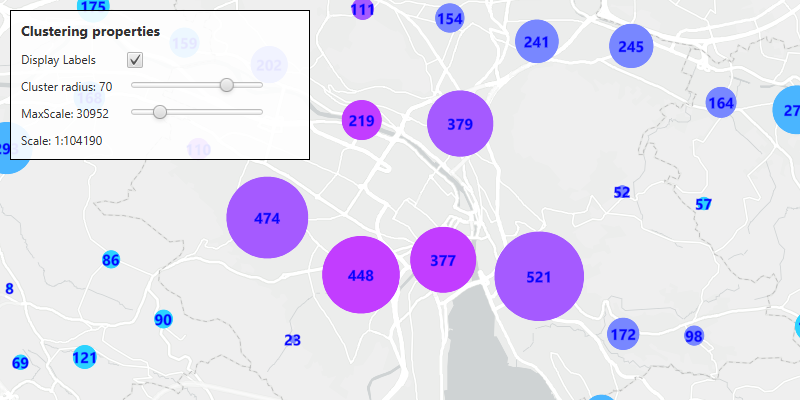
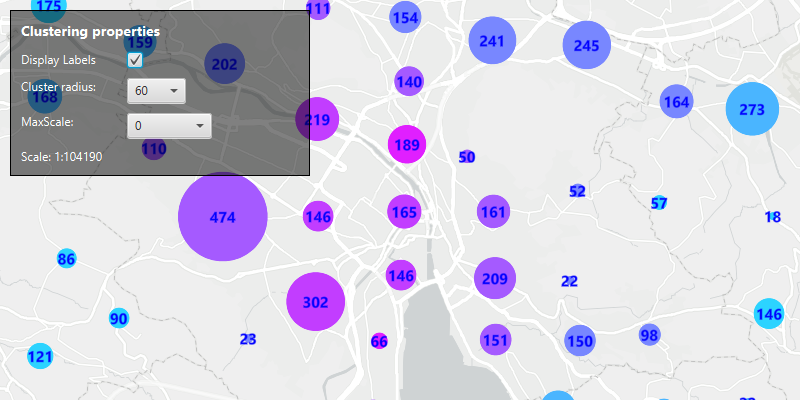
Addressing PR comments

diff --git a/feature_layers/add-feature-clustering/src/main/java/com/esri/samples/add_feature_clustering/AddFeatureClusteringSample.java b/feature_layers/add-feature-clustering/src/main/java/com/esri/samples/add_feature_clustering/AddFeatureClusteringSample.java
@@ -20,13 +20,14 @@ import java.util.ArrayList;
 import java.util.List;
 import java.util.Map;
 import java.util.concurrent.ExecutionException;
-import java.util.jar.Attributes;
 
+import com.esri.arcgisruntime.ArcGISRuntimeEnvironment;
 import com.esri.arcgisruntime.arcgisservices.LabelDefinition;
 import com.esri.arcgisruntime.arcgisservices.LabelingPlacement;
 import com.esri.arcgisruntime.concurrent.ListenableFuture;
 import com.esri.arcgisruntime.layers.FeatureLayer;
 import com.esri.arcgisruntime.loadable.LoadStatus;
+import com.esri.arcgisruntime.mapping.ArcGISMap;
 import com.esri.arcgisruntime.mapping.LayerList;
 import com.esri.arcgisruntime.mapping.labeling.SimpleLabelExpression;
 import com.esri.arcgisruntime.mapping.popup.Popup;
@@ -35,6 +36,7 @@ import com.esri.arcgisruntime.mapping.reduction.AggregateField;
 import com.esri.arcgisruntime.mapping.reduction.AggregateStatisticType;
 import com.esri.arcgisruntime.mapping.reduction.ClusteringFeatureReduction;
 import com.esri.arcgisruntime.mapping.view.IdentifyLayerResult;
+import com.esri.arcgisruntime.mapping.view.MapView;
 import com.esri.arcgisruntime.portal.Portal;
 import com.esri.arcgisruntime.portal.PortalItem;
 import com.esri.arcgisruntime.symbology.ClassBreaksRenderer;
@@ -47,8 +49,8 @@ import javafx.geometry.Point2D;
 import javafx.geometry.Pos;
 import javafx.scene.Scene;
 import javafx.scene.control.CheckBox;
+import javafx.scene.control.ComboBox;
 import javafx.scene.control.Label;
-import javafx.scene.control.Slider;
 import javafx.scene.layout.Background;
 import javafx.scene.layout.BackgroundFill;
 import javafx.scene.layout.Border;
@@ -64,29 +66,26 @@ import javafx.scene.paint.Paint;
 import javafx.scene.text.Font;
 import javafx.stage.Stage;
 
-import com.esri.arcgisruntime.ArcGISRuntimeEnvironment;
-import com.esri.arcgisruntime.mapping.ArcGISMap;
-import com.esri.arcgisruntime.mapping.view.MapView;
-
 public class AddFeatureClusteringSample extends Application {
 
-  private ArcGISMap mMap;
-  private CheckBox mDisplayLabelsCheckbox;
-  private Label mClusterRadiusLabel;
-  private Slider mClusterRadiusSlider;
-  private Label mMaxScaleLabel;
-  private Slider mMaxScaleSlider;
-  private Label mCurrentMapScaleLabel;
-  private FeatureLayer mLayer;
-  private Label mPopupContentLabel;
-
-  private ClusteringFeatureReduction mClusteringFeatureReduction;
+  private ArcGISMap map;
+  private CheckBox displayLabelsCheckbox;
+  private Label clusterRadiusLabel;
+  private ComboBox clusterRadiusPicker;
+  private Label maxScaleLabel;
+  private ComboBox maxScalePicker;
+  private Label currentMapScaleLabel;
+  private FeatureLayer layer;
+  private Label popupContentLabel;
+  private ClusteringFeatureReduction clusteringFeatureReduction;
   private String popupContent;
-
   private MapView mapView;
   private PortalItem portalItem; // keep loadable in scope to avoid garbage collection
 
-  private final int DEFAULT_CLUSTER_R = 60;
+  private final int DEFAULT_CLUSTER_RADIUS = 60;
+  private final int MIN_WIDTH = 100;
+  private final int MAX_WIDTH = 300;
+  private final int SPACING = 6;
 
   @Override
   public void start(Stage stage) {
@@ -111,27 +110,29 @@ public class AddFeatureClusteringSample extends Application {
       var portal = new Portal("https://www.arcgis.com/");
       portalItem = new PortalItem(portal, "aa44e79a4836413c89908e1afdace2ea");
 
-      mMap = new ArcGISMap(portalItem);
+      map = new ArcGISMap(portalItem);
 
       VBox vBoxPopupInformation = new VBox();
-      mPopupContentLabel = new Label();
-      vBoxPopupInformation.getChildren().addAll(mPopupContentLabel);
+      popupContentLabel = new Label();
+      setupVBoxStyling(vBoxPopupInformation);
+      vBoxPopupInformation.getChildren().addAll(popupContentLabel);
+      vBoxPopupInformation.setVisible(false);
 
       // Get the Zurich buildings feature layer once the map has finished loading
-      mMap.addDoneLoadingListener(() -> {
-        if (mMap.getLoadStatus() == LoadStatus.LOADED) {
-          LayerList l = mMap.getOperationalLayers();
+      map.addDoneLoadingListener(() -> {
+        if (map.getLoadStatus() == LoadStatus.LOADED) {
+          LayerList l = map.getOperationalLayers();
           if (l.isEmpty())
             return;
-          mLayer = (FeatureLayer) mMap.getOperationalLayers().get(0);
+          layer = (FeatureLayer) l.get(0);
 
           mapView.setOnMouseClicked(mouseEvent -> {
-            if (mLayer == null) {
+            if (layer == null) {
               return;
             }
             // Identify the tapped observation.
             Point2D point = new Point2D(mouseEvent.getX(), mouseEvent.getY());
-            ListenableFuture<IdentifyLayerResult> identifiedLayerResults = mapView.identifyLayerAsync(mLayer, point, 3.0, true);
+            ListenableFuture<IdentifyLayerResult> identifiedLayerResults = mapView.identifyLayerAsync(layer, point, 3.0, true);
             identifiedLayerResults.addDoneListener(() -> {
               try {
                 // clear the list of popup content
@@ -146,8 +147,9 @@ public class AddFeatureClusteringSample extends Application {
                 }
                 System.out.println("###: " + popupContent);
                 Platform.runLater(() ->{
-                  mPopupContentLabel.setText(popupContent);
-                  vBoxPopupInformation.setVisible(!mPopupContentLabel.getText().isEmpty());
+                  popupContentLabel.setText(popupContent);
+                  popupContentLabel.setTextFill(Color.WHITE);
+                  vBoxPopupInformation.setVisible(!popupContentLabel.getText().isEmpty());
                 });
 
               } catch (ExecutionException | InterruptedException e) {
@@ -160,17 +162,17 @@ public class AddFeatureClusteringSample extends Application {
           VBox vBoxControls = controlsVBox();
 
           // add the map view to the stack pane
-          stackPane.getChildren().addAll(mapView, vBoxControls/*, vBoxPopupInformation*/);
+          stackPane.getChildren().addAll(mapView, vBoxControls, vBoxPopupInformation);
           StackPane.setAlignment(vBoxControls, Pos.TOP_LEFT);
           StackPane.setMargin(vBoxControls, new Insets(10, 0, 0, 10));
-          //StackPane.setAlignment(vBoxPopupInformation, Pos.TOP_RIGHT);
-          //StackPane.setMargin(vBoxPopupInformation, new Insets(10, 0, 0, 10));
+          StackPane.setAlignment(vBoxPopupInformation, Pos.TOP_RIGHT);
+          StackPane.setMargin(vBoxPopupInformation, new Insets(10, 0, 0, 10));
 
           // Add a class break for each intended value range and define a symbol to display for features in that range.
           // In this case, the average building height ranges from 0 to 8 stories.
           // For each cluster of features with a given average building height, a symbol is defined with a specified
           // color.
-          List<ClassBreaksRenderer.ClassBreak> classBreaks = new ArrayList<ClassBreaksRenderer.ClassBreak>();
+          List<ClassBreaksRenderer.ClassBreak> classBreaks = new ArrayList<>();
           classBreaks.add(new ClassBreaksRenderer.ClassBreak("0", "0", 0.0, 1.0,
               new SimpleMarkerSymbol(SimpleMarkerSymbol.Style.CIRCLE, Color.rgb(4, 251, 255), 8.0f)));
           classBreaks.add(new ClassBreaksRenderer.ClassBreak("1", "1", 1.0, 2.0,
@@ -199,46 +201,46 @@ public class AddFeatureClusteringSample extends Application {
           classBreaksRenderer.setDefaultSymbol(new SimpleMarkerSymbol(SimpleMarkerSymbol.Style.CIRCLE, Color.PINK, 8));
 
           // Create a new clustering feature reduction using the class breaks renderer.
-          mClusteringFeatureReduction = new ClusteringFeatureReduction(classBreaksRenderer);
+          clusteringFeatureReduction = new ClusteringFeatureReduction(classBreaksRenderer);
 
           // Set the feature reduction's aggregate fields. Note that the field names must match the names of fields
           // in the feature layer's dataset.
           // The aggregate fields summarize values based on the defined aggregate statistic type.
-          mClusteringFeatureReduction.getAggregateFields().add(
+          clusteringFeatureReduction.getAggregateFields().add(
               new AggregateField("Total Residential Buildings", "Residential_Buildings", AggregateStatisticType.SUM));
 
-          mClusteringFeatureReduction.getAggregateFields().add(
+          clusteringFeatureReduction.getAggregateFields().add(
               new AggregateField("Average Building Height", "Most_common_number_of_storeys",
                   AggregateStatisticType.MODE));
 
           // Enable the feature reduction.
-          mClusteringFeatureReduction.setEnabled(true);
+          clusteringFeatureReduction.setEnabled(true);
 
           // Set the popup definition for the custom feature reduction.
-          mClusteringFeatureReduction.setPopupDefinition(new PopupDefinition(mClusteringFeatureReduction));
+          clusteringFeatureReduction.setPopupDefinition(new PopupDefinition(clusteringFeatureReduction));
 
           // Set values for the feature reduction's cluster minimum and maximum symbol sizes.
           // Note that the default values for Max and Min symbol size are 70 and 12 respectively.
-          mClusteringFeatureReduction.setMinSymbolSize(5.0);
-          mClusteringFeatureReduction.setMaxSymbolSize(90.0);
+          clusteringFeatureReduction.setMinSymbolSize(5.0);
+          clusteringFeatureReduction.setMaxSymbolSize(90.0);
 
           // Set the feature reduction for the layer.
-          mLayer.setFeatureReduction(mClusteringFeatureReduction);
+          layer.setFeatureReduction(clusteringFeatureReduction);
 
-          // Set initial slider values.
+          // Set initial ComboBox values.
           // Note that the default value for cluster radius is 60.
           // Increasing the cluster radius increases the number of features that are grouped together into a cluster.
-          mClusteringFeatureReduction.setRadius(DEFAULT_CLUSTER_R);
+          clusteringFeatureReduction.setRadius(DEFAULT_CLUSTER_RADIUS);
 
           // Note that the default value for max scale is 0.
           // The max scale value is the maximum scale at which clustering is applied.
-          mClusteringFeatureReduction.setMaxScale(0.0);
+          clusteringFeatureReduction.setMaxScale(0);
         }
       });
 
       // create a map view and set the map to it
       mapView = new MapView();
-      mapView.setMap(mMap);
+      mapView.setMap(map);
 
     } catch (Exception e) {
       // on any error, display the stack trace.
@@ -247,9 +249,22 @@ public class AddFeatureClusteringSample extends Application {
   }
 
   /**
-   * Creates a UI with three buttons and a label.
+   * Gets a VBox and sets up its styling.
+   */
+  private void setupVBoxStyling(VBox vBox) {
+    vBox.setBackground(new Background(new BackgroundFill(Paint.valueOf("rgba(0,0,0,0.5)"),
+        CornerRadii.EMPTY,
+        Insets.EMPTY)));
+    vBox.setPadding(new Insets(10.0));
+    vBox.setMaxSize(MAX_WIDTH, MIN_WIDTH);
+    vBox.getStyleClass().add("panel-region");
+    vBox.setBorder(new Border(new BorderStroke(Color.BLACK, BorderStrokeStyle.SOLID, CornerRadii.EMPTY, new BorderWidths(1))));
+  }
+
+  /**
+   * Creates a UI with a checkbox and two combo boxes.
    *
-   * @return a vBox populated with buttons and labels
+   * @return a vBox populated with checkbox, combo boxes, and labels
    */
   private VBox controlsVBox() {
 
@@ -258,83 +273,71 @@ public class AddFeatureClusteringSample extends Application {
     label.setFont(new Font(14));
     label.setTextFill(Color.WHITE);
 
-    final int MIN_WIDTH = 100;
-    final int MAX_WIDTH = 300;
-    final int SPACING = 6;
-
     HBox displayHBox = new HBox(SPACING);
-    Label label1 = new Label("Display Labels");
+    Label label1 = new Label("Display Labels: ");
     label1.setMinWidth(MIN_WIDTH);
     label1.setTextFill(Color.WHITE);
+
     // create checkbox to toggle the showing of cluster count
-    mDisplayLabelsCheckbox = new CheckBox();
-    mDisplayLabelsCheckbox.setSelected(false);
-    mDisplayLabelsCheckbox.setTextFill(Color.WHITE);
-    mDisplayLabelsCheckbox.selectedProperty().addListener(o -> {
-      if (mDisplayLabelsCheckbox.isSelected()) {
-        SimpleLabelExpression simpleLabelExpression = new SimpleLabelExpression("[cluster_count]");
-        TextSymbol textSymbol = new TextSymbol(15.0f, "", Color.BLUE, TextSymbol.HorizontalAlignment.CENTER, TextSymbol.VerticalAlignment.MIDDLE);
-        textSymbol.setFontWeight(TextSymbol.FontWeight.BOLD);
-        LabelDefinition labelDefinition = new LabelDefinition(simpleLabelExpression, textSymbol);
-        labelDefinition.setPlacement(LabelingPlacement.POINT_CENTER_CENTER);
-        mClusteringFeatureReduction.getLabelDefinitions().add(labelDefinition);
+
+    SimpleLabelExpression simpleLabelExpression = new SimpleLabelExpression("[cluster_count]");
+    TextSymbol textSymbol = new TextSymbol(15.0f, "", Color.BLUE, TextSymbol.HorizontalAlignment.CENTER, TextSymbol.VerticalAlignment.MIDDLE);
+    textSymbol.setFontWeight(TextSymbol.FontWeight.BOLD);
+    LabelDefinition labelDefinition = new LabelDefinition(simpleLabelExpression, textSymbol);
+    labelDefinition.setPlacement(LabelingPlacement.POINT_CENTER_CENTER);
+
+    displayLabelsCheckbox = new CheckBox();
+    displayLabelsCheckbox.setSelected(false);
+    displayLabelsCheckbox.setTextFill(Color.WHITE);
+    displayLabelsCheckbox.selectedProperty().addListener(o -> {
+      if (displayLabelsCheckbox.isSelected()) {
+        clusteringFeatureReduction.getLabelDefinitions().add(labelDefinition);
       }
       else {
-        mClusteringFeatureReduction.getLabelDefinitions().clear();
+        clusteringFeatureReduction.getLabelDefinitions().clear();
       }
     });
-    displayHBox.getChildren().addAll(label1, mDisplayLabelsCheckbox);
+    displayHBox.getChildren().addAll(label1, displayLabelsCheckbox);
 
     HBox clusterRadiusHBox = new HBox(SPACING);
-    mClusterRadiusLabel = new Label("Cluster radius: " + DEFAULT_CLUSTER_R);
-    mClusterRadiusLabel.setMinWidth(MIN_WIDTH);
-    mClusterRadiusLabel.setTextFill(Color.WHITE);
-    mClusterRadiusSlider = new Slider();
-    mClusterRadiusSlider.setValue(DEFAULT_CLUSTER_R);
+    clusterRadiusLabel = new Label("Cluster radius: ");
+    clusterRadiusLabel.setMinWidth(MIN_WIDTH);
+    clusterRadiusLabel.setTextFill(Color.WHITE);
+    clusterRadiusPicker = new ComboBox();
+    clusterRadiusPicker.getItems().addAll(30, 45, 60, 75, 90);
+    clusterRadiusPicker.setValue(DEFAULT_CLUSTER_RADIUS);
 
-    // create a slider for adjusting cluster radius
-    mClusterRadiusSlider = new Slider(30, 85, DEFAULT_CLUSTER_R);
-    mClusterRadiusSlider.setMaxWidth(MAX_WIDTH);
-    // add a listener to the slider's value property to set the cluster radius
-    mClusterRadiusSlider.setOnMouseReleased(event -> {
-      mClusterRadiusLabel.setText(String.valueOf("Cluster radius: " + (int) mClusterRadiusSlider.getValue()));
-      mClusteringFeatureReduction.setRadius(mClusterRadiusSlider.getValue());
+    // add a listener to the ComboBox's value property to set the cluster radius
+    clusterRadiusPicker.setOnAction(event -> {
+      clusteringFeatureReduction.setRadius((int) clusterRadiusPicker.getValue());
     });
-    clusterRadiusHBox.getChildren().addAll(mClusterRadiusLabel, mClusterRadiusSlider);
+    clusterRadiusHBox.getChildren().addAll(clusterRadiusLabel, clusterRadiusPicker);
 
-    final int DEFAULT_SCALE_WIDTH = 0;
-    final int MAX_SCALE_WIDTH = 150000;
     HBox maxScaleHBox = new HBox(SPACING);
-    mMaxScaleLabel = new Label("MaxScale: " + DEFAULT_SCALE_WIDTH);
-    mMaxScaleLabel.setMinWidth(MIN_WIDTH);
-    mMaxScaleLabel.setTextFill(Color.WHITE);
-    // create a slider for adjusting max scale
-    mMaxScaleSlider = new Slider(0, MAX_SCALE_WIDTH, DEFAULT_SCALE_WIDTH);
-    mMaxScaleSlider.setMaxWidth(MAX_SCALE_WIDTH);
-    // add a listener to the slider's value property to set the max scale
-    mMaxScaleSlider.setOnMouseReleased(event -> {
-      mMaxScaleLabel.setText(String.valueOf("MaxScale: " + (int) mMaxScaleSlider.getValue()));
-      mClusteringFeatureReduction.setMaxScale(mMaxScaleSlider.getValue());
+    maxScaleLabel = new Label("MaxScale: ");
+    maxScaleLabel.setMinWidth(MIN_WIDTH);
+    maxScaleLabel.setTextFill(Color.WHITE);
+    // create a ComboBox for adjusting max scale
+    maxScalePicker = new ComboBox();
+    maxScalePicker.getItems().addAll(0, 1000, 5000, 10000, 50000, 100000, 500000);
+    maxScalePicker.setValue(0);
+
+    // add a listener to the ComboBox's value property to set the max scale
+    maxScalePicker.setOnAction(event -> {
+      clusteringFeatureReduction.setMaxScale((int) maxScalePicker.getValue());
     });
-    maxScaleHBox.getChildren().addAll(mMaxScaleLabel, mMaxScaleSlider);
+    maxScaleHBox.getChildren().addAll(maxScaleLabel, maxScalePicker);
 
     // show current map scale in a label within the control panel
-    mCurrentMapScaleLabel = new Label("Scale: 1:" + mapView.getMapScale());
-    mCurrentMapScaleLabel.setTextFill(Color.WHITE);
+    currentMapScaleLabel = new Label("Scale: 1:" + mapView.getMapScale());
+    currentMapScaleLabel.setTextFill(Color.WHITE);
 
     // listen for map scale changes and update the label
-    mapView.mapScaleProperty().addListener((observable, oldValue, newValue) ->
-        mCurrentMapScaleLabel.setText("Scale: 1:" + Math.round((double) newValue)));
+    currentMapScaleLabel.textProperty().bind(mapView.mapScaleProperty().map(i -> "Scale: 1:" + Math.round(i.doubleValue())));
 
     VBox controlsVBox = new VBox(10);
-    controlsVBox.setBackground(new Background(new BackgroundFill(Paint.valueOf("rgba(0,0,0,0.5)"),
-        CornerRadii.EMPTY,
-        Insets.EMPTY)));
-    controlsVBox.setPadding(new Insets(10.0));
-    controlsVBox.setMaxSize(MAX_WIDTH, MIN_WIDTH);
-    controlsVBox.getStyleClass().add("panel-region");
-    controlsVBox.setBorder(new Border(new BorderStroke(Color.BLACK, BorderStrokeStyle.SOLID, CornerRadii.EMPTY, new BorderWidths(1))));
-    controlsVBox.getChildren().addAll(label, displayHBox, clusterRadiusHBox, maxScaleHBox, mCurrentMapScaleLabel);
+    setupVBoxStyling(controlsVBox);
+    controlsVBox.getChildren().addAll(label, displayHBox, clusterRadiusHBox, maxScaleHBox, currentMapScaleLabel);
 
     return controlsVBox;
   }

diff --git a/feature_layers/add-feature-clustering/README.md b/feature_layers/add-feature-clustering/README.md
@@ -10,7 +10,7 @@ Feature clustering can be used to dynamically aggregate groups of points that ar
 
 ## How to use the sample
 
-Interact with the controls to customize clustering feature reduction properties. Tap on any clustered aggregate geoelement to see the cluster feature count and aggregate fields in the popup.
+Interact with the controls to customize clustering feature reduction properties. Click on any clustered aggregate geoelement to see the cluster feature count and aggregate fields in the popup.
 
 ## How it works
 
